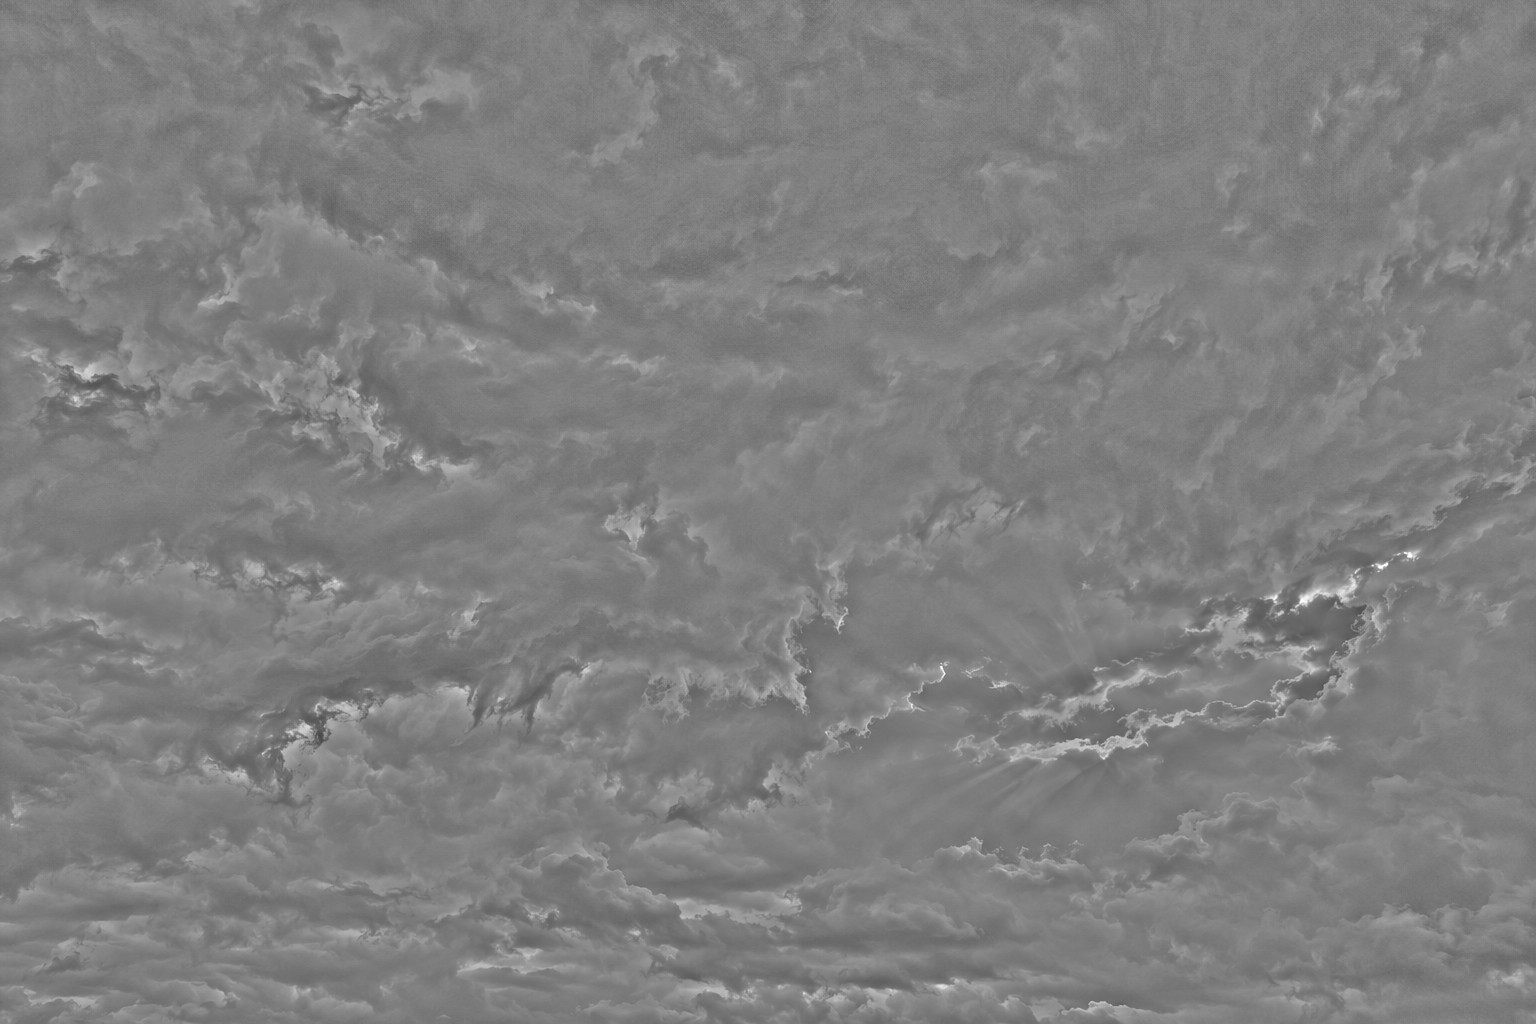
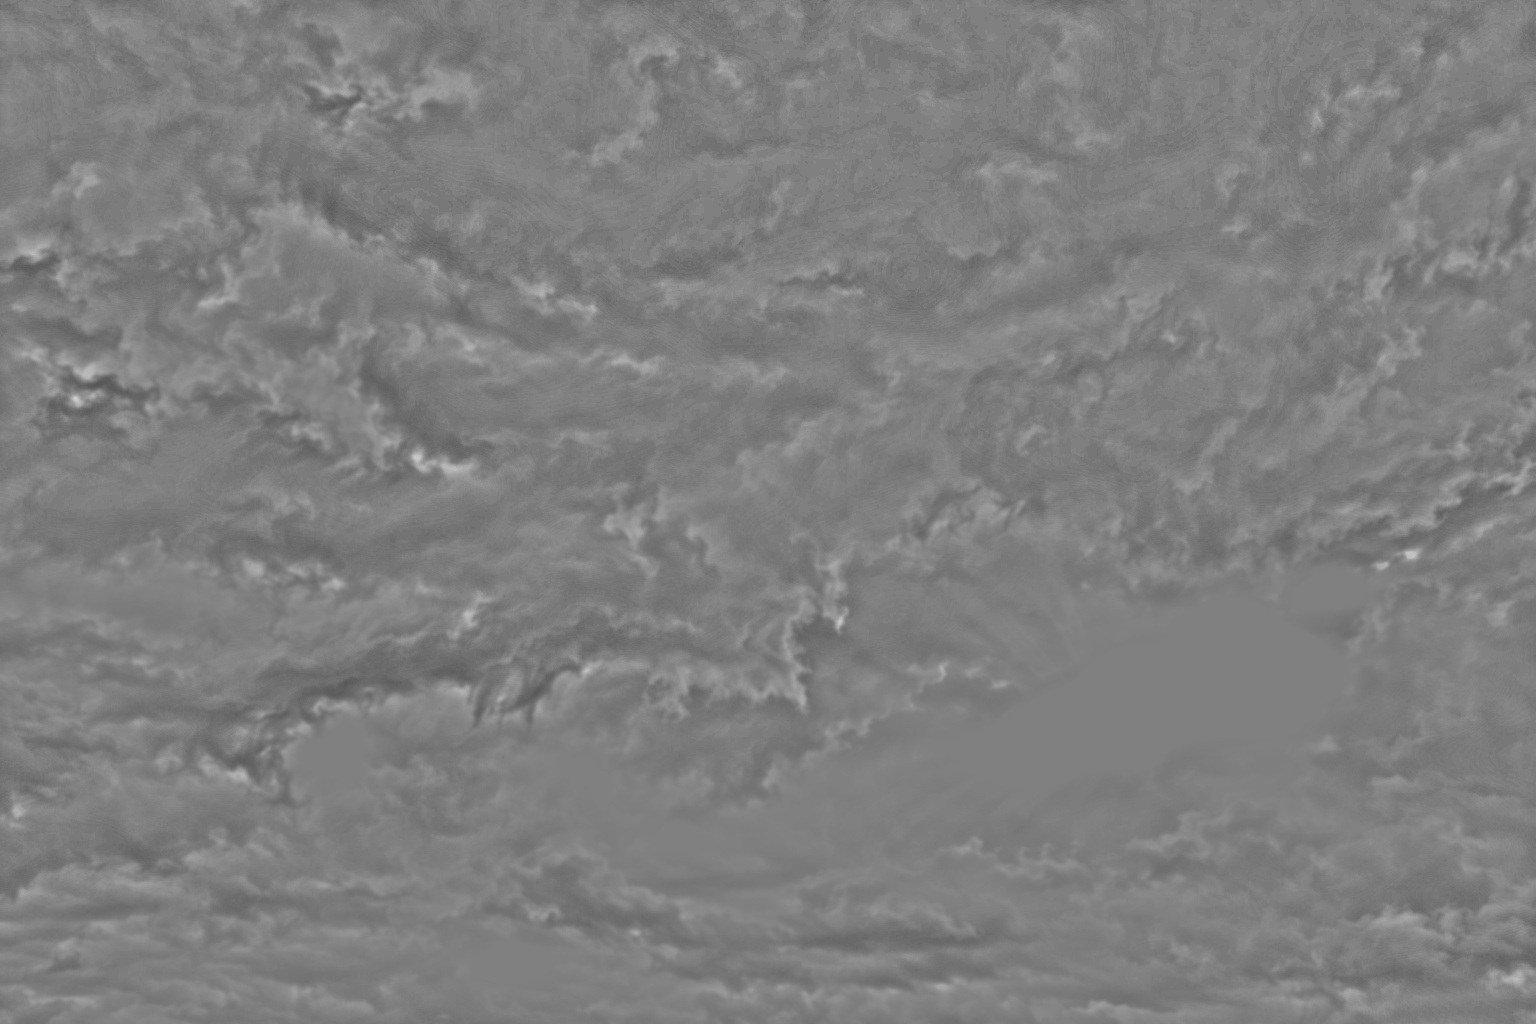
Sky: sheet rebuilt without sharpening, cloud to slate, one smooth burn curve, fine map flat round the break; thin floor mist; heavier sky for the bore

diff --git a/src/places/ribs/shared/rig.ts b/src/places/ribs/shared/rig.ts
@@ -23,13 +23,13 @@ export const BREAK = { x: 150, z: -430, radius: 480, gain: 0.8, cover: 0.62 };
  * sky, degrees right of north. The approach and the strait are one move and keep BREAK. Inside a shot the light goes with the wind; at a cut
  * it stands where the next shot wants it, as a crew waits for the light: on the colony's rock (whose faces to the lens are its lee: there
  * the light the lit sea and flats throw back is raised, `bounce` times, as a crew would hold a white sheet), on the feeders and the water behind them, on the flats behind the one that hangs in the weed (pale against a cliff in shade), on the
- * bore's spray in the gate.
+ * bore's spray in the gate. `sky` is what the cloud's own brightness is given in the shot: the bore comes in under a heavier sky.
  */
-const BREAK_BY_SHOT: readonly { shot: string; key: string; x: number; z: number; radius: number; yaw: number; bounce?: number; shaft?: number }[] = [
+const BREAK_BY_SHOT: readonly { shot: string; key: string; x: number; z: number; radius: number; yaw: number; bounce?: number; shaft?: number; sky?: number }[] = [
   { shot: 'ribs-03', key: 'ribs-3', x: 196, z: -500, radius: 380, yaw: 16, bounce: 4.4 },
   { shot: 'ribs-04', key: 'ribs-2', x: -40, z: -500, radius: 380, yaw: 23 },
   { shot: 'ribs-05', key: 'ribs-1', x: -60, z: -420, radius: 220, yaw: 42, shaft: 2.4 },
-  { shot: 'ribs-06', key: 'ribs-4', x: 120, z: -1440, radius: 260, yaw: 22 },
+  { shot: 'ribs-06', key: 'ribs-4', x: 120, z: -1440, radius: 260, yaw: 22, sky: 0.66 },
 ];
 /** Where the break stands in the sky at the establishing key, degrees right of north: upper right of the strait's frame, left of the sun that burns through its edge. */
 const BREAK_YAW = 42;
@@ -425,7 +425,7 @@ export function createRig(): Rig {
   const skyTurn = new THREE.Vector4(0, 0, 0, SKY_GAIN);
   const staging = BREAK_BY_SHOT.map((b) => ({ ...b, span: shotSpan(b.shot), at: keySeconds(b.key) }));
   /** The break's staging for the shot the camera stands in: its own, or the strait's. */
-  const stagedBreak = (): { x: number; z: number; radius: number; yaw: number; at: number; bounce?: number; shaft?: number } => {
+  const stagedBreak = (): { x: number; z: number; radius: number; yaw: number; at: number; bounce?: number; shaft?: number; sky?: number } => {
     const staged = stagedSeconds();
     const own = loopPhase() === null ? staging.find((b) => staged >= b.span.from && staged < b.span.to) : undefined;
     return own ?? { x: BREAK.x, z: BREAK.z, radius: BREAK.radius, yaw: BREAK_YAW, at: T0 };
@@ -631,7 +631,7 @@ export function createRig(): Rig {
       skyGround.set(...SKY_LIGHT.ground);
       haze.set(...HAZE);
       bounce.set(...BOUNCE).multiplyScalar(stagedBreak().bounce ?? 1);
-      skyTurn.w = SKY_GAIN;
+      skyTurn.w = SKY_GAIN * (stagedBreak().sky ?? 1);
       if (weight !== 0) {
         // The burning break stands in the right of the frame as the film opens, and drifts to its own place.
         const turn = STORM.turn * weight;

diff --git a/src/places/ribs/shared/glsl.ts b/src/places/ribs/shared/glsl.ts
@@ -135,13 +135,17 @@ vec3 skyCloud(vec3 from, vec3 d) {
   // The picture has a sixth of a texel for a pixel of the widest lens: its own lumps, read four times smaller and against their own
   // local mean, are laid into it as the fine structure a cloud has at every size.
   vec2 fineAt = uv * 4.0 + vec2(0.31, 0.17) + 0.05 * work;
-  c *= mix(1.0, clamp(texture2D(tSkyFine, fineAt).r * 1.992, 0.65, 1.4), 0.4);
+  c *= mix(1.0, clamp(texture2D(tSkyFine, fineAt).r * 1.992, 0.6, 1.22), 0.7);
+  // The storm's cloud is slate: the brown of the picture's bases is taken out.
+  float grey = dot(c, vec3(0.3, 0.5, 0.2));
+  c = mix(c, grey * vec3(0.87, 0.98, 1.13), 0.55);
   // The break is silver, not gold: what burns in the picture is cooled to the white of light through thin cloud; a little of its warmth stays.
   float burning = dot(c, vec3(0.333));
   c = mix(c, burning * vec3(0.93, 0.99, 1.08), 0.82 * smoothstep(0.12, 0.7, burning));
-  // The break burns: where the picture is bright the cloud is lit through, far above the grey of the bases.
-  // The bases are heavy: what is dark in the picture is darker here, what is bright burns.
-  c *= 0.6 + 0.4 * smoothstep(0.04, 0.22, dot(c, vec3(0.333))) + 1.6 * smoothstep(0.45, 1.5, dot(c, vec3(0.333)));
+  // The bases are heavy and the break burns: what is dark in the picture is darker here and what is bright is brighter, by one smooth
+  // curve, so that the break keeps the soft edge it has in the picture.
+  burning = dot(c, vec3(0.333));
+  c *= 0.55 + 1.9 * burning / (burning + 1.6);
   // Straight overhead the picture runs out: the slate of the cloud's base.
   c = mix(c, uSkyZenith * 0.8, smoothstep(1.0, 1.35, el));
   // Toward the horizon the cloud is seen through more and more air.

diff --git a/src/places/ribs/air/index.ts b/src/places/ribs/air/index.ts
@@ -176,7 +176,8 @@ void main() {
     float lumps = textureLod(tCloudShade, p.xz / 210.0 - uTime * vec2(0.033, 0.058) + 0.37, clamp(fineness - 2.6, 1.0, 8.0)).g;
     float bank = smoothstep(0.3, 0.8, banks + 0.4 * (lumps - 0.5));
     // A bank has a top, low where it is thin and some forty metres where it is thick, and the haze over it stands thicker too.
-    float mist = 0.0034 * exp(-max(p.y, 0.0) / (9.0 + 34.0 * bank)) * bank;
+    // Between the banks a thin breath of it lies on the wet floor: the far flats go into the air as the blades do, not black to the horizon.
+    float mist = (0.0034 * bank + 0.0008) * exp(-max(p.y, 0.0) / (9.0 + 34.0 * bank));
     float a = 1.0 - exp(-(thickness(p.y) * (0.6 + 0.9 * bank) + mist) * (t1 - t0) * smoothstep(130.0, 600.0, tm));
     // Under the shut cloud the air is the storm's slate; where the break stands over it, it takes the sky's light and the sun.
     float gap = cloudShadeMarched(p);
@@ -206,7 +207,7 @@ void main() {
     float cover = 1.0 - exp(-tau);
     // The air between the lens and the column dims it; the air behind it is hidden by it.
     float near = exp(-thickness(0.5 * (ro.y + centre.y)) * clamp(tm, 0.0, reach));
-    vec3 light = (uHaze * 1.25 * uScatter.x + sunAir * (c.x * (0.15 + 0.5 * uScatter.y * phase))) * uShowAir;
+    vec3 light = (uHaze * 1.25 * uScatter.x + sunAir * (c.x * (0.07 + 0.5 * uScatter.y * phase))) * uShowAir;
     sum = sum * (1.0 - cover * near) + light * (cover * near);
     trans *= 1.0 - cover;
   }

diff --git a/assets-src/ribs/air/fine.py b/assets-src/ribs/air/fine.py
@@ -1,10 +1,13 @@
 # The fine structure of the storm sky: the picture's brightness over its own local mean, as one grey picture.
-# 128 is no change, 255 is twice the mean. Run from the repo's root: python3 assets-src/ribs/air/fine.py
+# 128 is no change, 255 is twice the mean. The picture is smoothed a little first (its grain is not cloud), and round the
+# break, where the local mean is bright, the map is flat: the break's lit edges, laid in small, read as veins in marble.
+# Run from the repo's root: python3 assets-src/ribs/air/fine.py
 import numpy as np
 from PIL import Image, ImageFilter
 src = Image.open('assets-src/ribs/air/src/storm-1.png').convert('L')
-wide = src.filter(ImageFilter.GaussianBlur(14))
-a = np.asarray(src, dtype=np.float32)
-b = np.asarray(wide, dtype=np.float32)
-fine = np.clip(128.0 * (a + 2.0) / (b + 2.0), 0, 255).astype(np.uint8)
-Image.fromarray(fine, 'L').save('public/assets/ribs/air/storm-fine.jpg', quality=90)
+a = np.asarray(src.filter(ImageFilter.GaussianBlur(1.6)), dtype=np.float32)
+b = np.asarray(src.filter(ImageFilter.GaussianBlur(14)), dtype=np.float32)
+ratio = np.clip((a + 2.0) / (b + 2.0), 0.6, 1.5)
+dark = np.clip(1.0 - (b - 55.0) / 60.0, 0.0, 1.0)
+fine = np.clip(128.0 * (1.0 + 1.25 * dark * (ratio - 1.0)), 0, 255).astype(np.uint8)
+Image.fromarray(fine, 'L').save('public/assets/ribs/air/storm-fine.jpg', quality=95)

diff --git a/assets-src/ribs/air/sheet.py b/assets-src/ribs/air/sheet.py
@@ -1,0 +1,11 @@
+# The storm sky as it is loaded: the source picture with the grain of its dark bases smoothed (0.9 px where the cloud is
+# dark, none where it is lit), enlarged twice with Lanczos and no sharpening. Run from the repo's root: python3 assets-src/ribs/air/sheet.py
+import numpy as np
+from PIL import Image, ImageFilter
+src = Image.open('assets-src/ribs/air/src/storm-1.png').convert('RGB')
+soft = np.asarray(src.filter(ImageFilter.GaussianBlur(0.9)), dtype=np.float32)
+wide = np.asarray(src.convert('L').filter(ImageFilter.GaussianBlur(4)), dtype=np.float32)
+dark = np.clip(1.0 - (wide - 60.0) / 60.0, 0.0, 1.0)[..., None]
+a = np.asarray(src, dtype=np.float32)
+out = Image.fromarray(np.clip(a + (soft - a) * dark, 0, 255).astype(np.uint8), 'RGB')
+out.resize((3072, 2048), Image.LANCZOS).save('public/assets/ribs/air/storm.jpg', quality=92, subsampling=0)

diff --git a/assets-src/ribs/ROWS-ribs_sky_builder.md b/assets-src/ribs/ROWS-ribs_sky_builder.md
@@ -2,5 +2,5 @@
 
 | file | what | tool or model | prompt | take | date |
 | --- | --- | --- | --- | --- | --- |
-| `public/assets/ribs/air/storm.jpg` (source `assets-src/ribs/air/src/storm-1.png`, enlarged to 3072 by 2048 and saved as JPEG with ImageMagick: `-filter Lanczos -resize 200% -unsharp 0x1.4+0.7+0.01 -quality 90`) | The storm sky on the dome: dark slate cloud with one burning break, laid by heading and height in `skyCloud` | `generate_image`, default model, aspect 4:3, with `references/approved/1-ribs/ribs-0-establishing.jpg` passed as reference | "A photograph of the sky only, taken with a wide lens over the open sea in the hour before sunset as a violent storm breaks up. Almost the whole frame is heavy storm cloud: blue-black and dark slate cumulonimbus bases with real structure, hanging ragged scud, torn shelves and deep folds, darkest toward the top of the frame, with thin paler grey lower down. Right of the middle, about a third of the way up, there is ONE break in the cloud: a ragged tear with burning edges where low warm sunlight comes through from behind the cloud, pale gold and silver-white at its core, the cloud edges round it lit amber and cream, faint rays fanning from it into the dark cloud. The sun itself is hidden behind cloud: no sun disc anywhere. Everything else stays dark and cold, slate and black with a little silver. The bottom edge of the frame lies just above the horizon and the top edge is high overhead: only sky and cloud, no horizon line, no land, no sea, no rocks, no birds. The reference image is the place this sky belongs to: take the weight and colour of its cloud from it, but darker and with the single warm break. A real photograph as a camera records a real storm sky: real soft gradients, fine real cloud detail, no painted or stylised look. One wide landscape image, three units wide and two tall. No text, no logo, no people." | 1 of 1, kept | 2026-11-26 |
-| `public/assets/ribs/air/storm-fine.jpg` | The fine structure of the same sky, laid into it four times smaller in `skyCloud`: computed from `assets-src/ribs/air/src/storm-1.png` by `assets-src/ribs/air/fine.py` (brightness over its own local mean) | computed, Pillow and numpy | none | no take | 2026-11-26 |
+| `public/assets/ribs/air/storm.jpg` (source `assets-src/ribs/air/src/storm-1.png`, made into the loaded file by `assets-src/ribs/air/sheet.py`: the grain of the dark bases smoothed, enlarged to 3072 by 2048 with Lanczos, no sharpening, JPEG quality 92) | The storm sky on the dome: dark slate cloud with one burning break, laid by heading and height in `skyCloud` | `generate_image`, default model, aspect 4:3, with `references/approved/1-ribs/ribs-0-establishing.jpg` passed as reference | "A photograph of the sky only, taken with a wide lens over the open sea in the hour before sunset as a violent storm breaks up. Almost the whole frame is heavy storm cloud: blue-black and dark slate cumulonimbus bases with real structure, hanging ragged scud, torn shelves and deep folds, darkest toward the top of the frame, with thin paler grey lower down. Right of the middle, about a third of the way up, there is ONE break in the cloud: a ragged tear with burning edges where low warm sunlight comes through from behind the cloud, pale gold and silver-white at its core, the cloud edges round it lit amber and cream, faint rays fanning from it into the dark cloud. The sun itself is hidden behind cloud: no sun disc anywhere. Everything else stays dark and cold, slate and black with a little silver. The bottom edge of the frame lies just above the horizon and the top edge is high overhead: only sky and cloud, no horizon line, no land, no sea, no rocks, no birds. The reference image is the place this sky belongs to: take the weight and colour of its cloud from it, but darker and with the single warm break. A real photograph as a camera records a real storm sky: real soft gradients, fine real cloud detail, no painted or stylised look. One wide landscape image, three units wide and two tall. No text, no logo, no people." | 1 of 1, kept | 2026-11-26 |
+| `public/assets/ribs/air/storm-fine.jpg` | The fine structure of the same sky, laid into it four times smaller in `skyCloud`: computed from `assets-src/ribs/air/src/storm-1.png` by `assets-src/ribs/air/fine.py` (brightness over its own local mean, flat round the break) | computed, Pillow and numpy | none | no take | 2026-11-26 |
